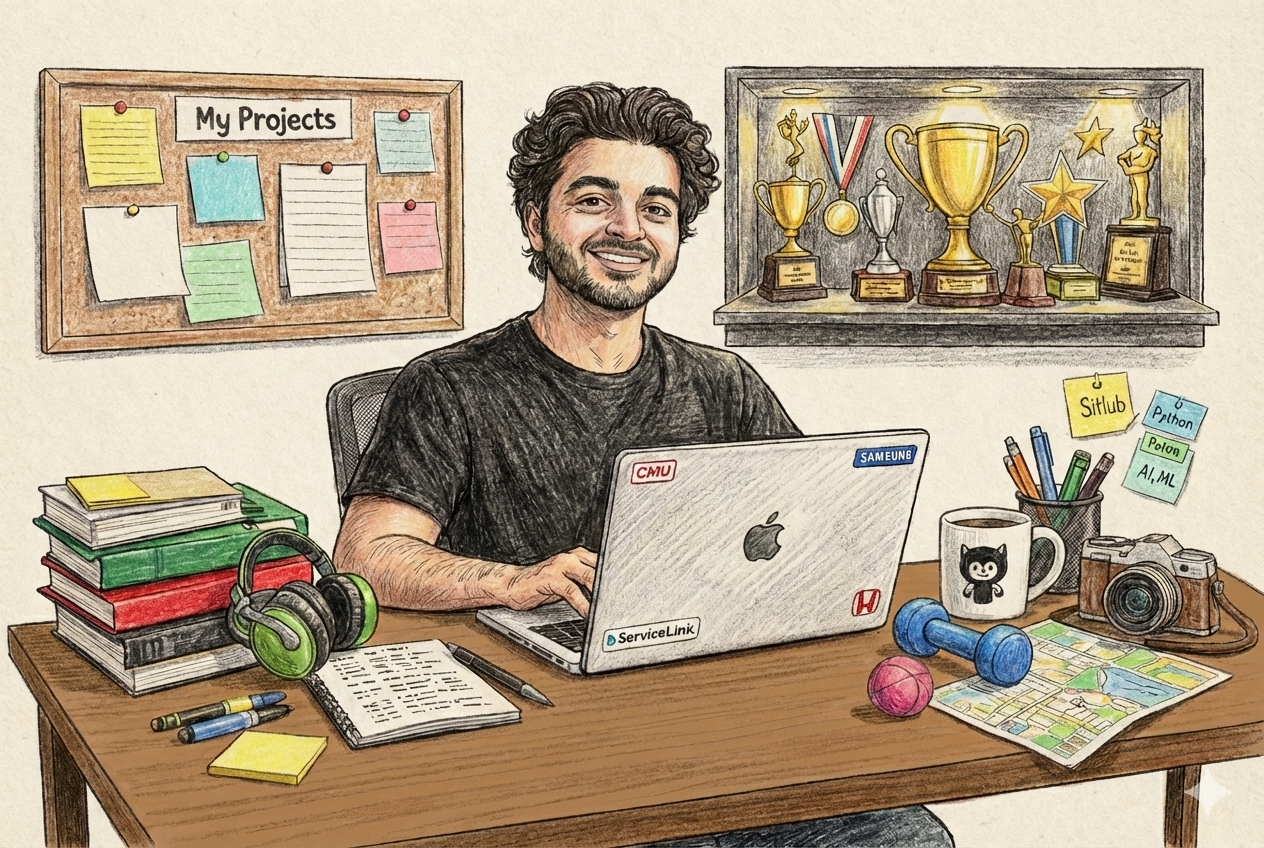
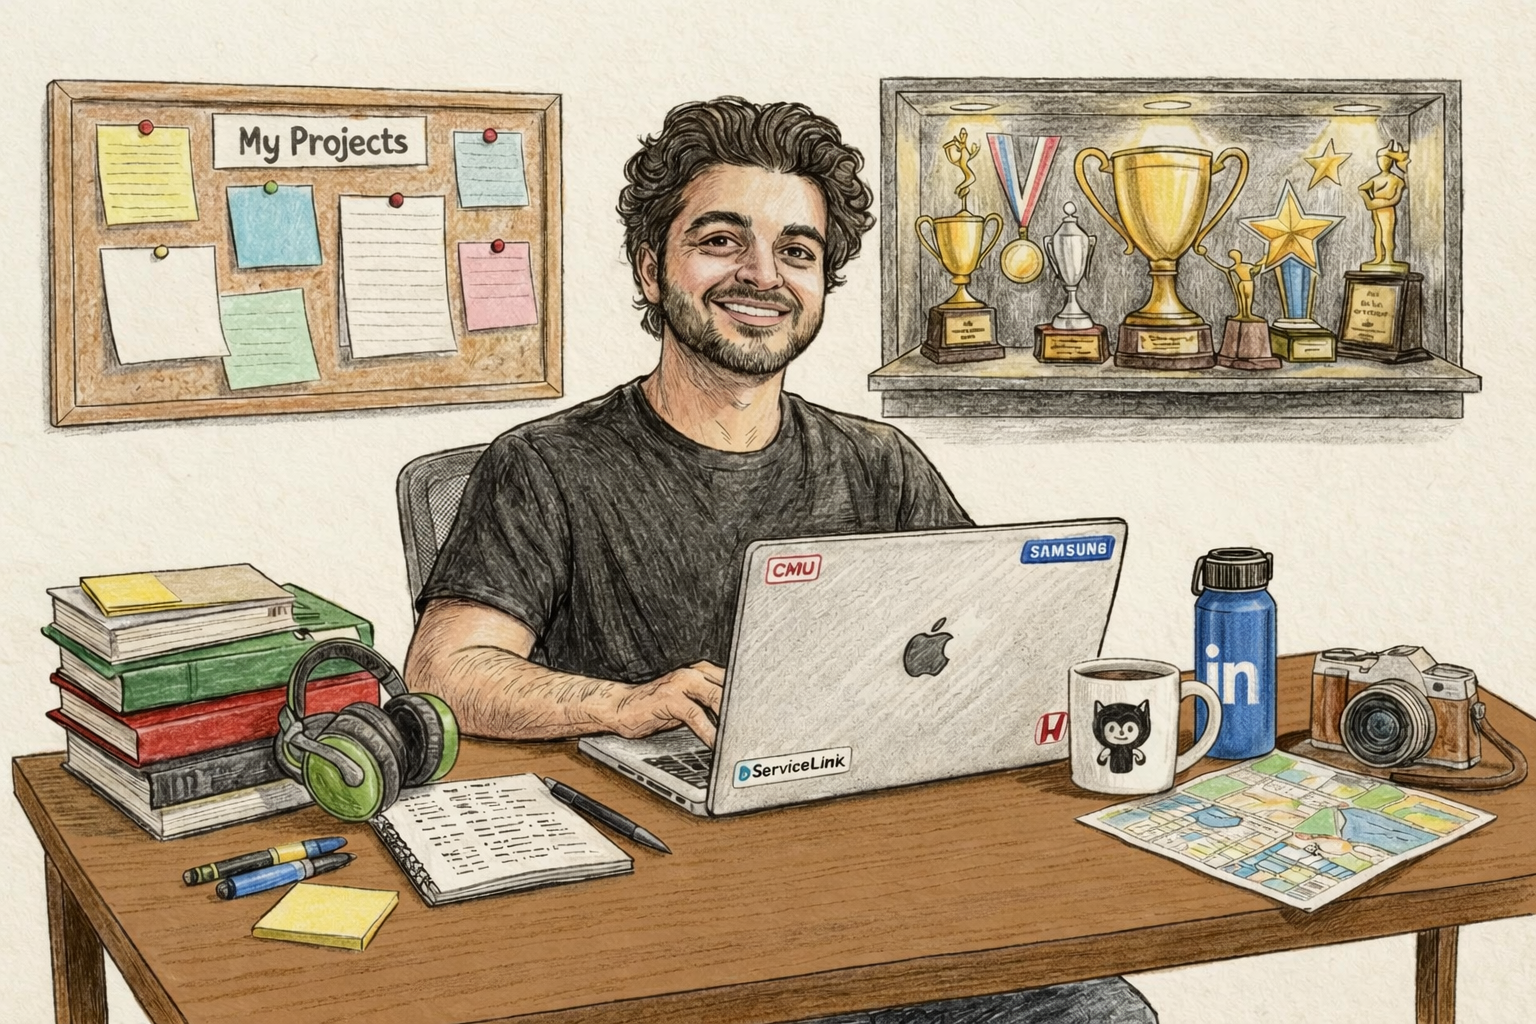
Update homepage illustration, background color, and image border
- Replace illustration-hero.png with updated desk scene
- Match page background color (#f0e8d2) to illustration's warm parchment tone
- Add black border with rounded corners and shadow to hero image

Changed region(s): [[0.0, 0.0613, 1.0, 1.0], [0.5862, 0.6132, 0.6171, 0.6745]]

diff --git a/src/app/globals.css b/src/app/globals.css
@@ -150,10 +150,10 @@
 
 /* ── Light theme (homepage) ── */
 .light-theme {
-  --color-bg: #faf9f7;
-  --color-bg-subtle: #f3f1ed;
-  --color-bg-muted: #e8e4dc;
-  --color-bg-hover: #e0dbd1;
+  --color-bg: #f0e8d2;
+  --color-bg-subtle: #e8dfc6;
+  --color-bg-muted: #dfd5b8;
+  --color-bg-hover: #d6ccae;
   --color-accent: #3b82f6;
   --color-accent-hover: #2563eb;
   --color-accent-muted: rgba(59, 130, 246, 0.12);
@@ -168,7 +168,7 @@
   --color-border-hover: rgba(0, 0, 0, 0.15);
   --color-border-accent: rgba(59, 130, 246, 0.3);
   --color-success: #10b981;
-  background-color: #faf9f7;
+  background-color: #f0e8d2;
   color: #1a1a2e;
 }
 

diff --git a/src/components/bento-hero.tsx b/src/components/bento-hero.tsx
@@ -12,7 +12,7 @@ export function BentoHero() {
     >
 
       {/* Illustration */}
-      <div className="w-full max-w-xl mx-auto">
+      <div className="w-full max-w-xl mx-auto rounded-2xl overflow-hidden border-2 border-black shadow-md">
         {!imgError ? (
           <Image
             src="/images/illustration-hero.png"
